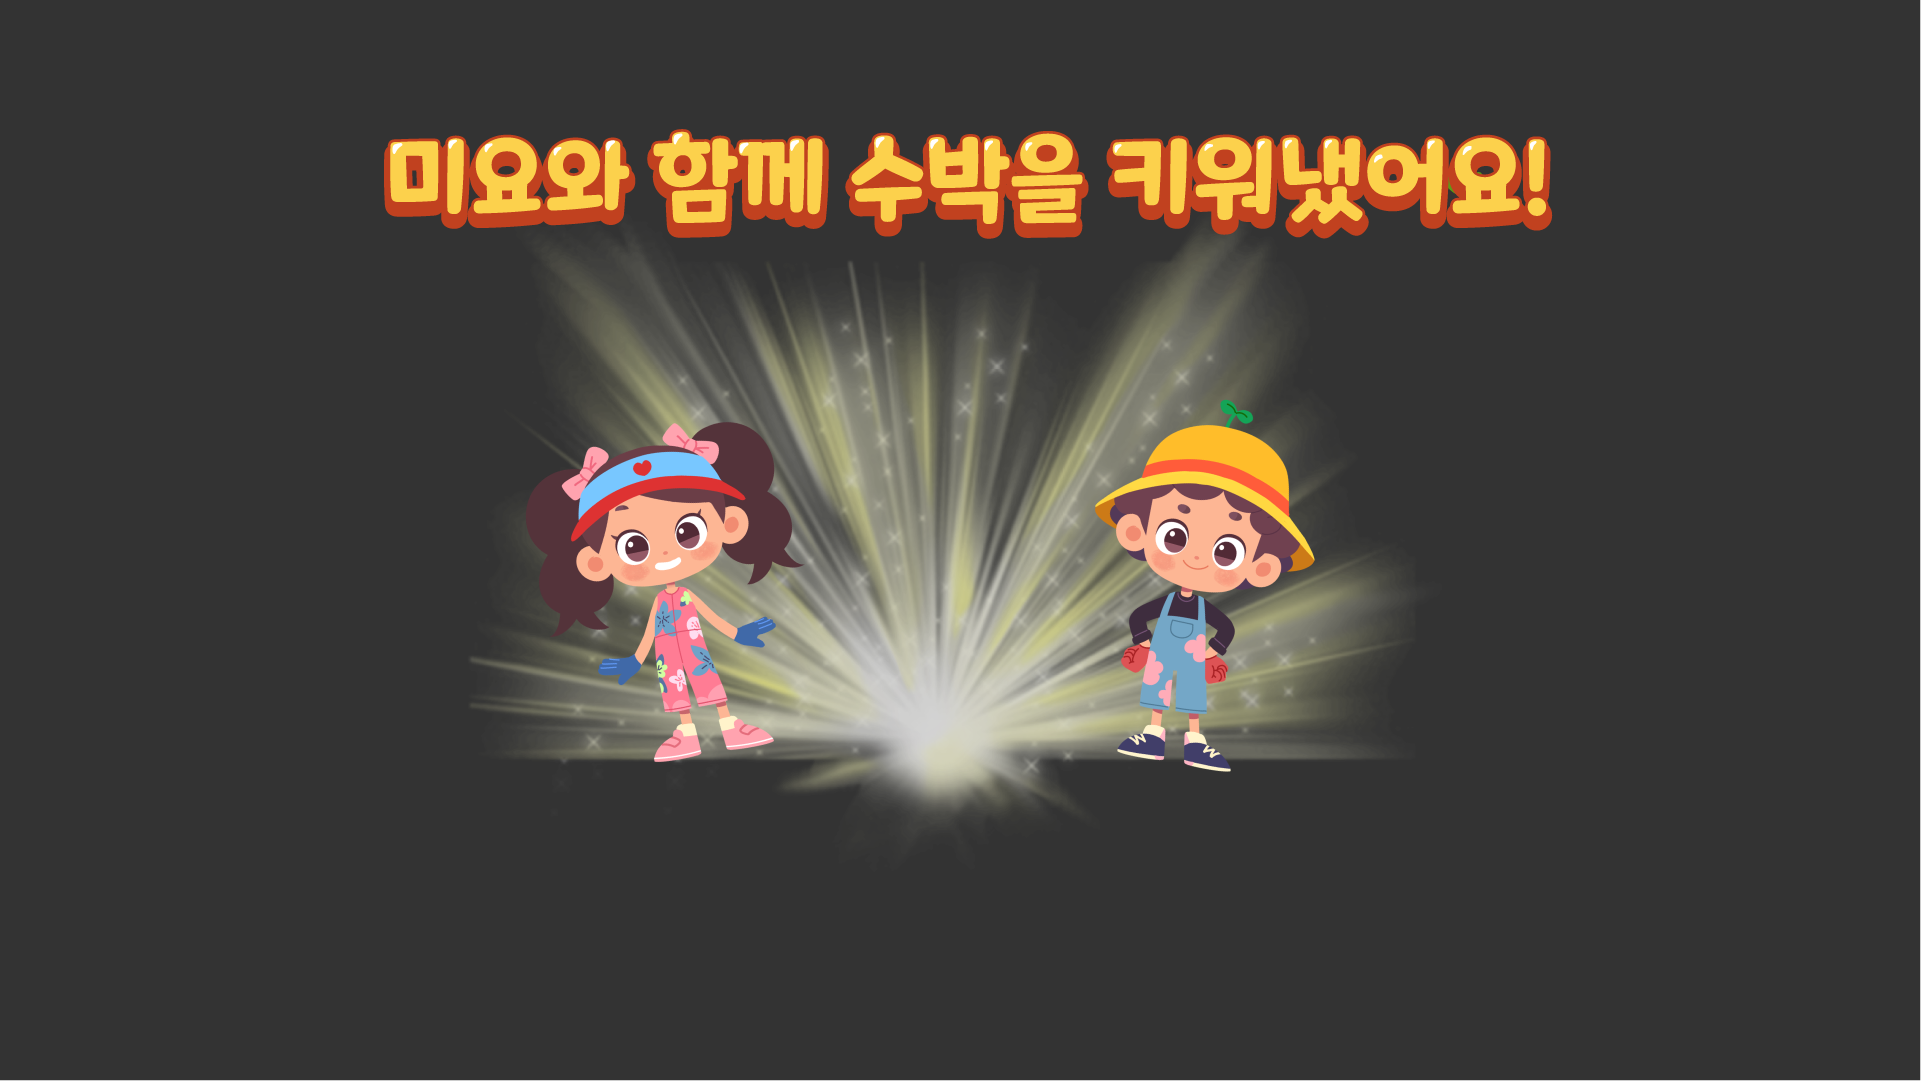
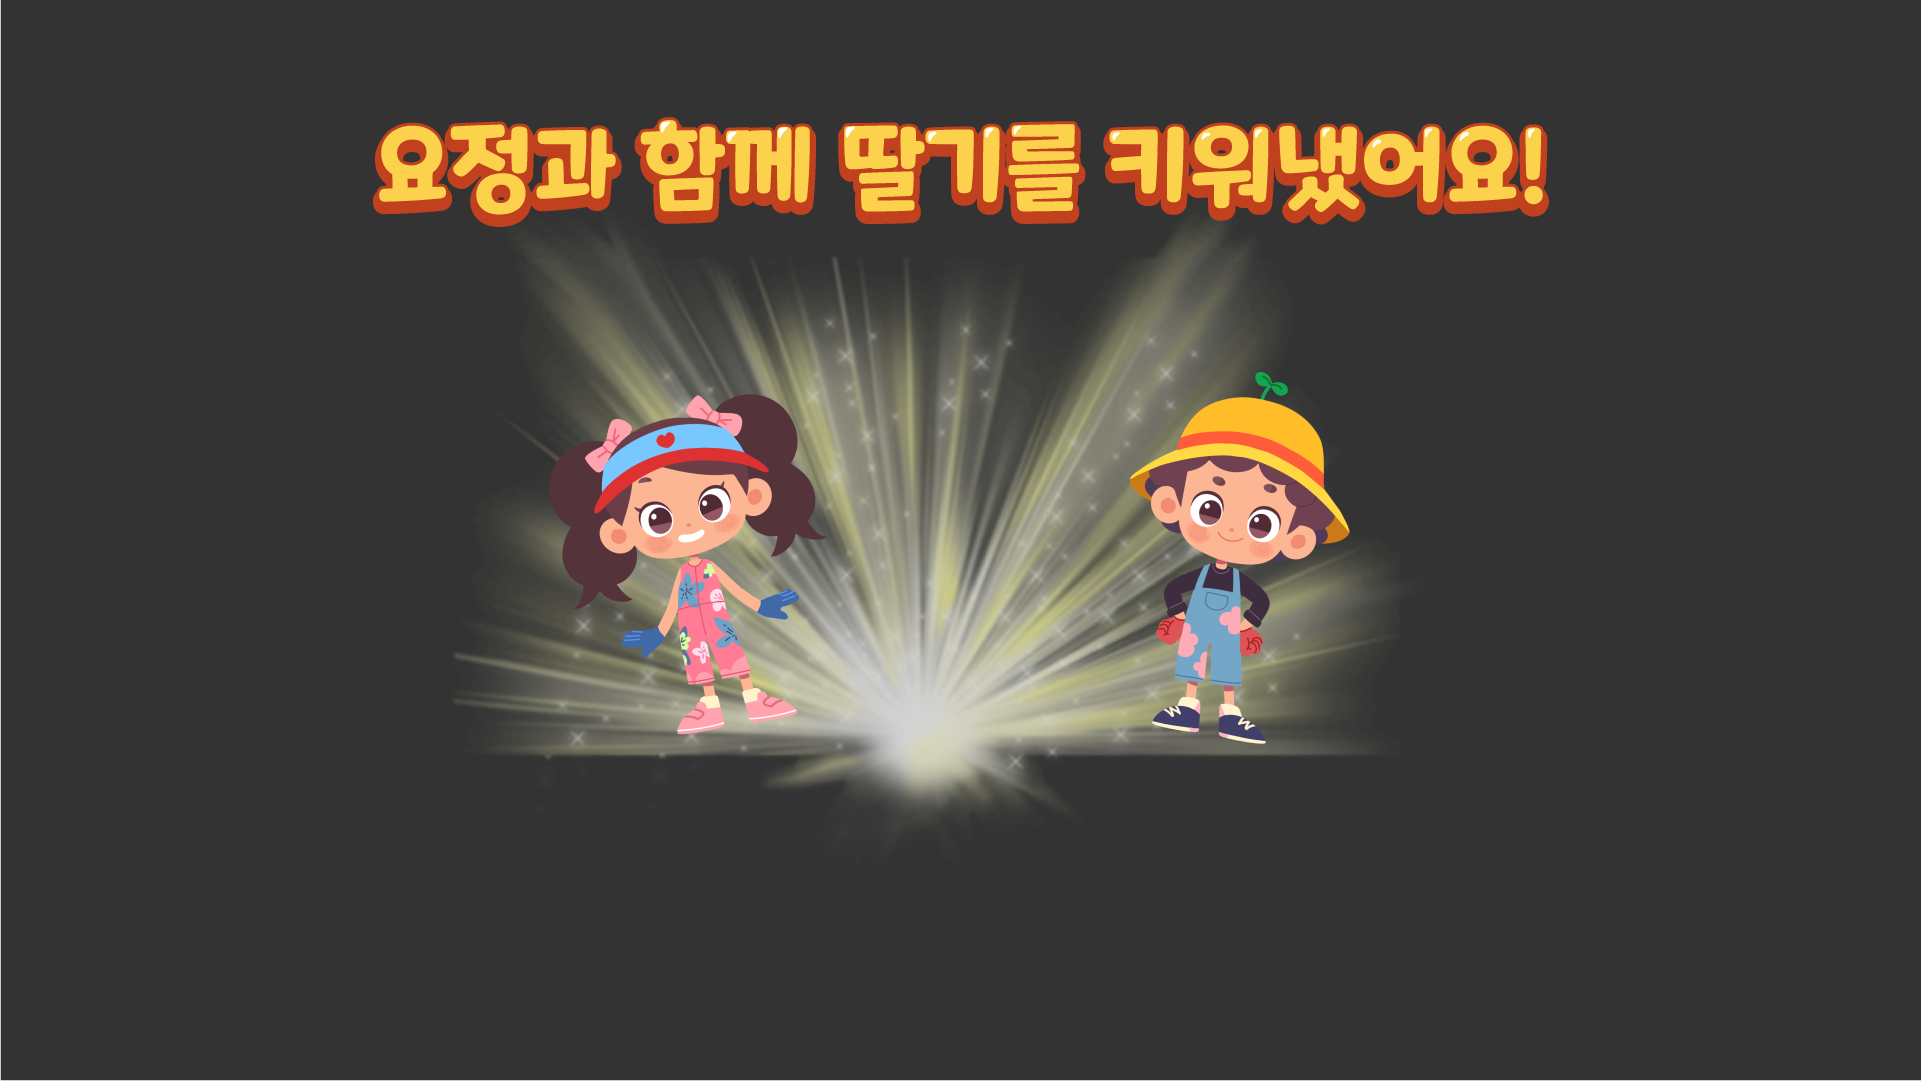
유아1 - finish img 구분

diff --git a/preSchool-1/css/select.css b/preSchool-1/css/select.css
@@ -255,6 +255,11 @@ body.game-active:active {
   position: absolute;
 }
 
+.finish-bg.type-2 {
+  background: url(../img/select-2/finish-bg.png) center/contain no-repeat;
+  position: absolute;
+}
+
 .strawberry-finish {
   position: absolute;
   width: 33%;

diff --git a/preSchool-1/select2.html b/preSchool-1/select2.html
@@ -60,7 +60,7 @@
               <img src="img/select-2/success-ment.png" />
             </div>
 
-            <div class="display-none dimmed finish-bg pointer-none">
+            <div class="display-none dimmed finish-bg type-2 pointer-none">
               <img src="img/select-2/wm-finish.png" class="wm-finish" />
 
               <img